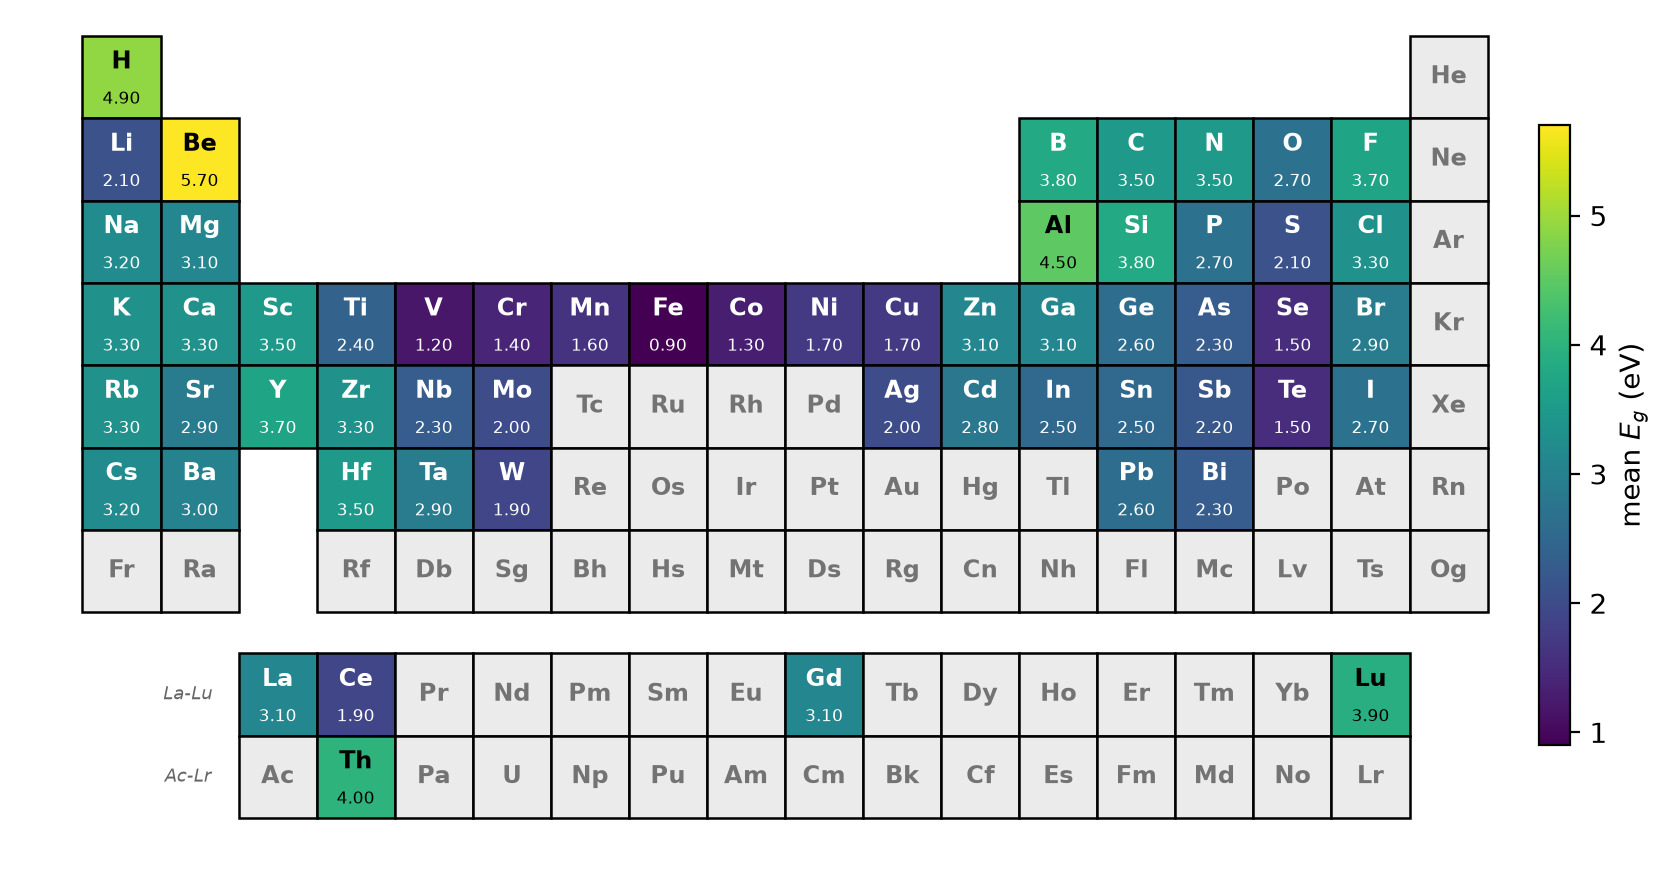
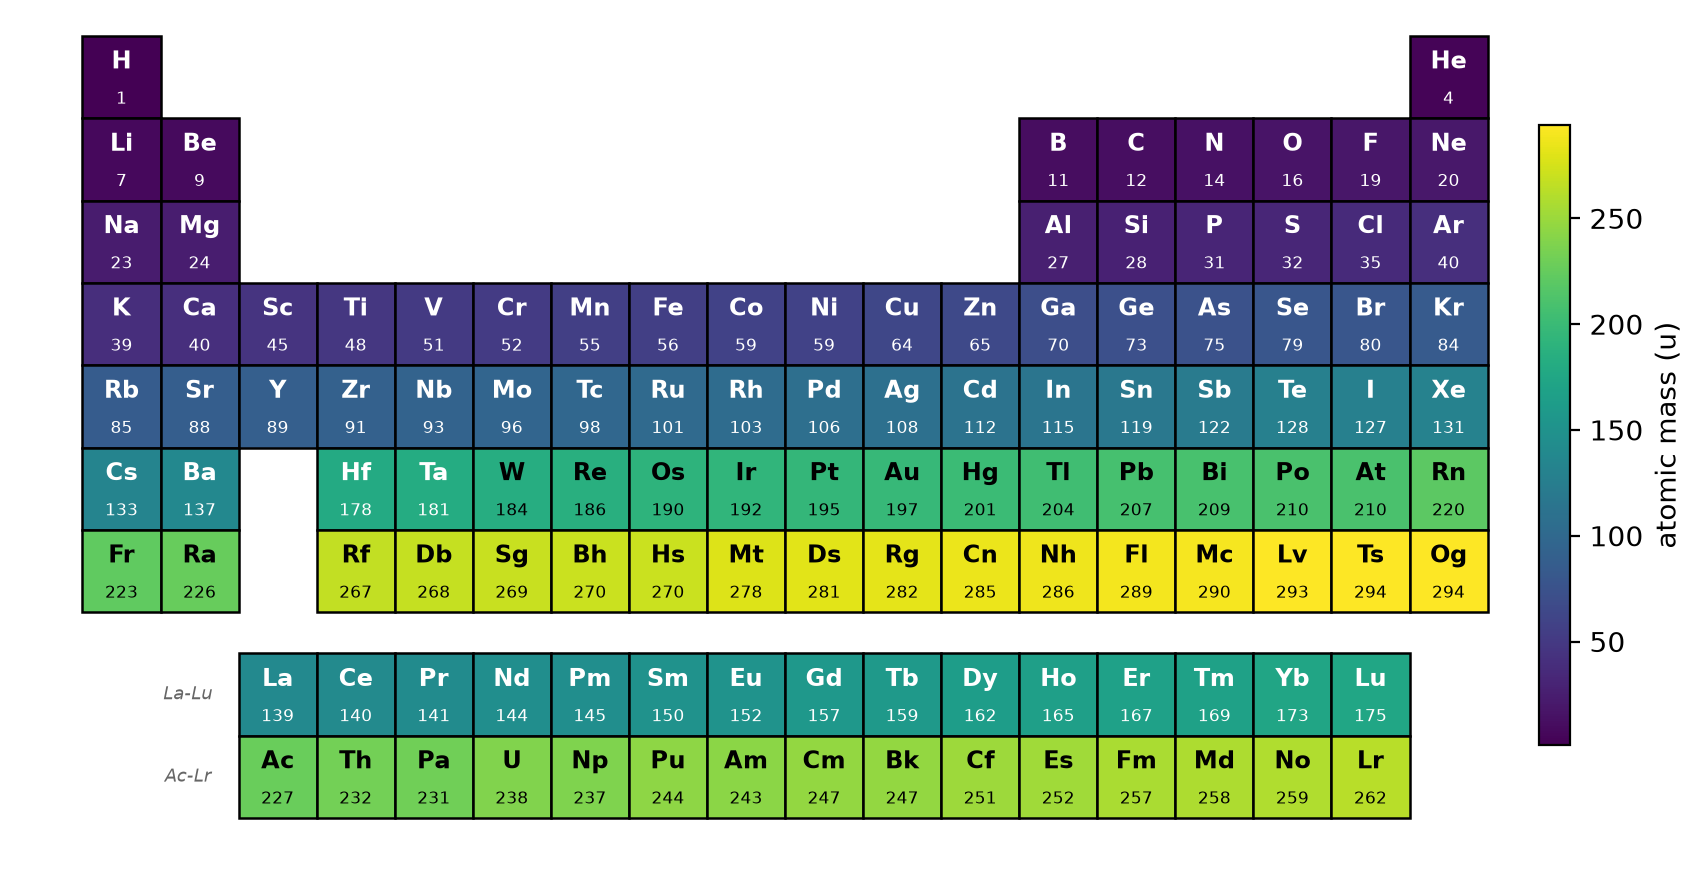
docs: hero image now colours all 118 elements (atomic mass)

diff --git a/docs/make_readme_figure.py b/docs/make_readme_figure.py
@@ -1,23 +1,17 @@
-"""Generate the README hero image (default look) + a diverging example."""
-import matplotlib.pyplot as plt
+"""Generate the README images.
+
+Hero: atomic mass for ALL 118 elements (data bundled with the package, so the
+whole table is coloured).  Second: a diverging example.
+"""
 import periodicplots as pp
+from periodicplots import ELEMENTS
 
-# a fuller, nicer-looking sample property (mean band gap-ish, eV)
-gap = {
-    "H": 4.9, "Li": 2.1, "Be": 5.7, "B": 3.8, "C": 3.5, "N": 3.5, "O": 2.7, "F": 3.7,
-    "Na": 3.2, "Mg": 3.1, "Al": 4.5, "Si": 3.8, "P": 2.7, "S": 2.1, "Cl": 3.3,
-    "K": 3.3, "Ca": 3.3, "Sc": 3.5, "Ti": 2.4, "V": 1.2, "Cr": 1.4, "Mn": 1.6,
-    "Fe": 0.9, "Co": 1.3, "Ni": 1.7, "Cu": 1.7, "Zn": 3.1, "Ga": 3.1, "Ge": 2.6,
-    "As": 2.3, "Se": 1.5, "Br": 2.9, "Rb": 3.3, "Sr": 2.9, "Y": 3.7, "Zr": 3.3,
-    "Nb": 2.3, "Mo": 2.0, "Ag": 2.0, "Cd": 2.8, "In": 2.5, "Sn": 2.5, "Sb": 2.2,
-    "Te": 1.5, "I": 2.7, "Cs": 3.2, "Ba": 3.0, "Hf": 3.5, "Ta": 2.9, "W": 1.9,
-    "Pb": 2.6, "Bi": 2.3, "La": 3.1, "Ce": 1.9, "Gd": 3.1, "Lu": 3.9, "Th": 4.0,
-}
+# {Z: atomic mass} for every element -> the full table is filled
+mass = {Z: meta[2] for Z, meta in ELEMENTS.items()}
+pp.periodic_table(mass, label="atomic mass (u)", value_fmt="{:.0f}",
+                  figsize=(10, 5.4), savepath="example.png", dpi=200)
 
-pp.periodic_table(gap, label="mean $E_g$ (eV)", figsize=(10, 5.4),
-                  savepath="example.png", dpi=200)
-
-# diverging example
+# diverging example (property defined for a subset)
 slope = {"H": -0.77, "Li": -0.27, "Be": -0.60, "B": -0.47, "C": -0.43, "N": -0.46,
          "O": -0.36, "F": -0.36, "Na": -0.45, "Al": -0.56, "Si": -0.45, "Cl": -0.28,
          "K": -0.39, "Ga": -0.52, "Ge": -0.44, "Cu": -0.16, "Zn": -0.46, "Ag": -0.22,
@@ -25,4 +19,4 @@ slope = {"H": -0.77, "Li": -0.27, "Be": -0.60, "B": -0.47, "C": -0.43, "N": -0.4
 pp.periodic_table(slope, cmap="RdBu_r", norm="diverging", figsize=(10, 5.4),
                   label="mean d$E_g$/dT (meV/K)", value_fmt="{:+.2f}",
                   savepath="example_diverging.png", dpi=200)
-print("wrote docs/example.png + docs/example_diverging.png")
+print("wrote docs/example.png (all elements) + docs/example_diverging.png")
